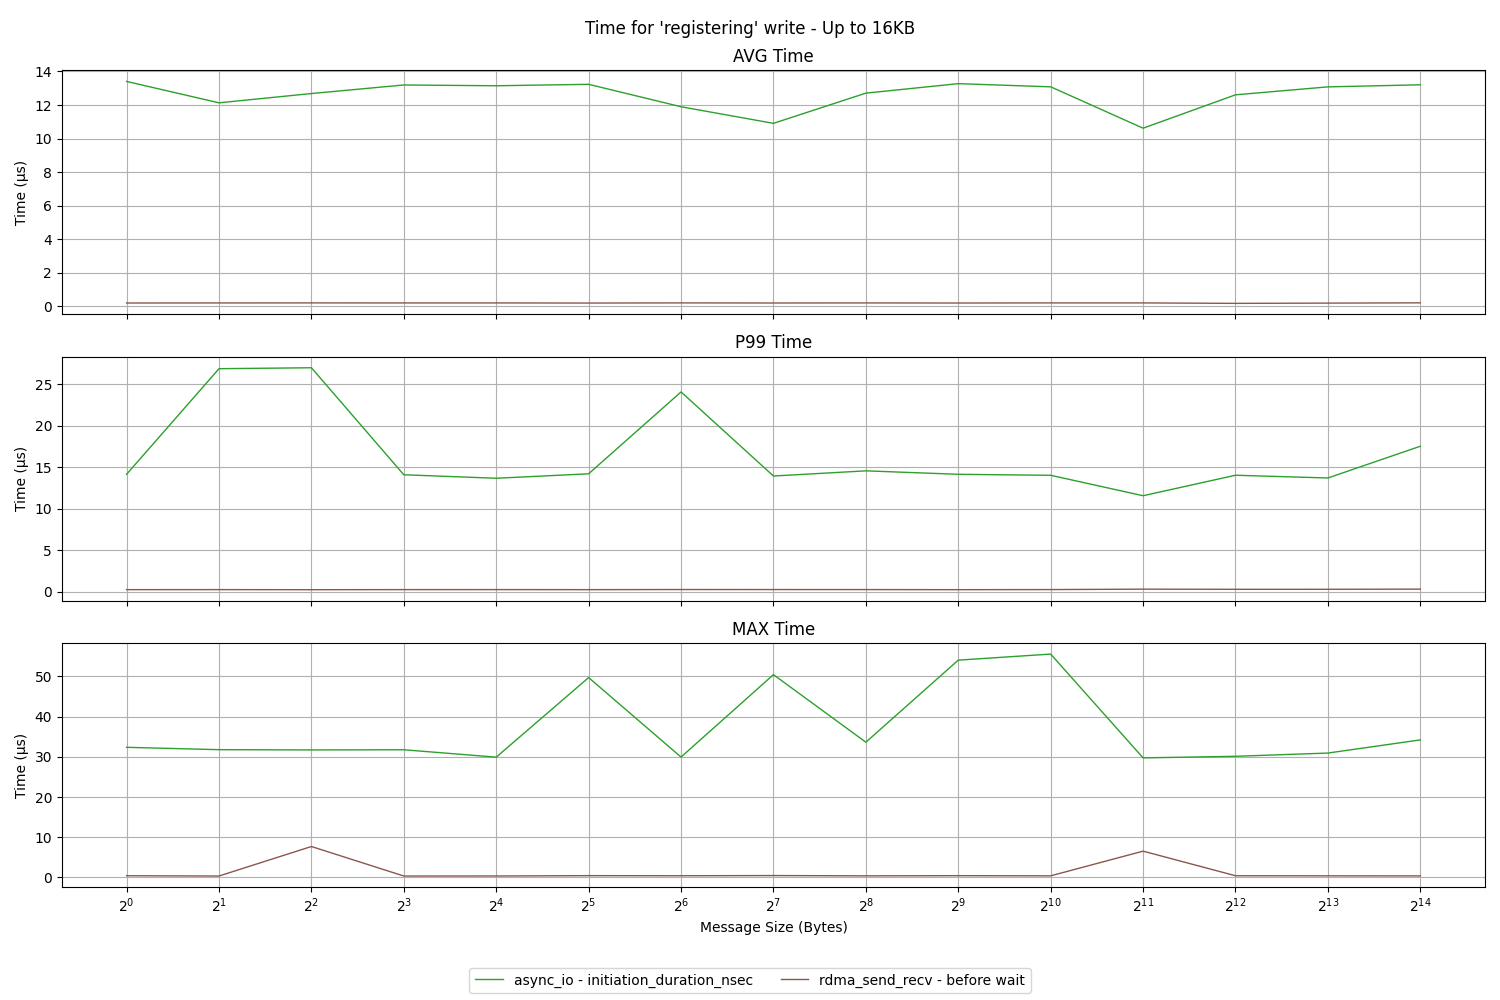
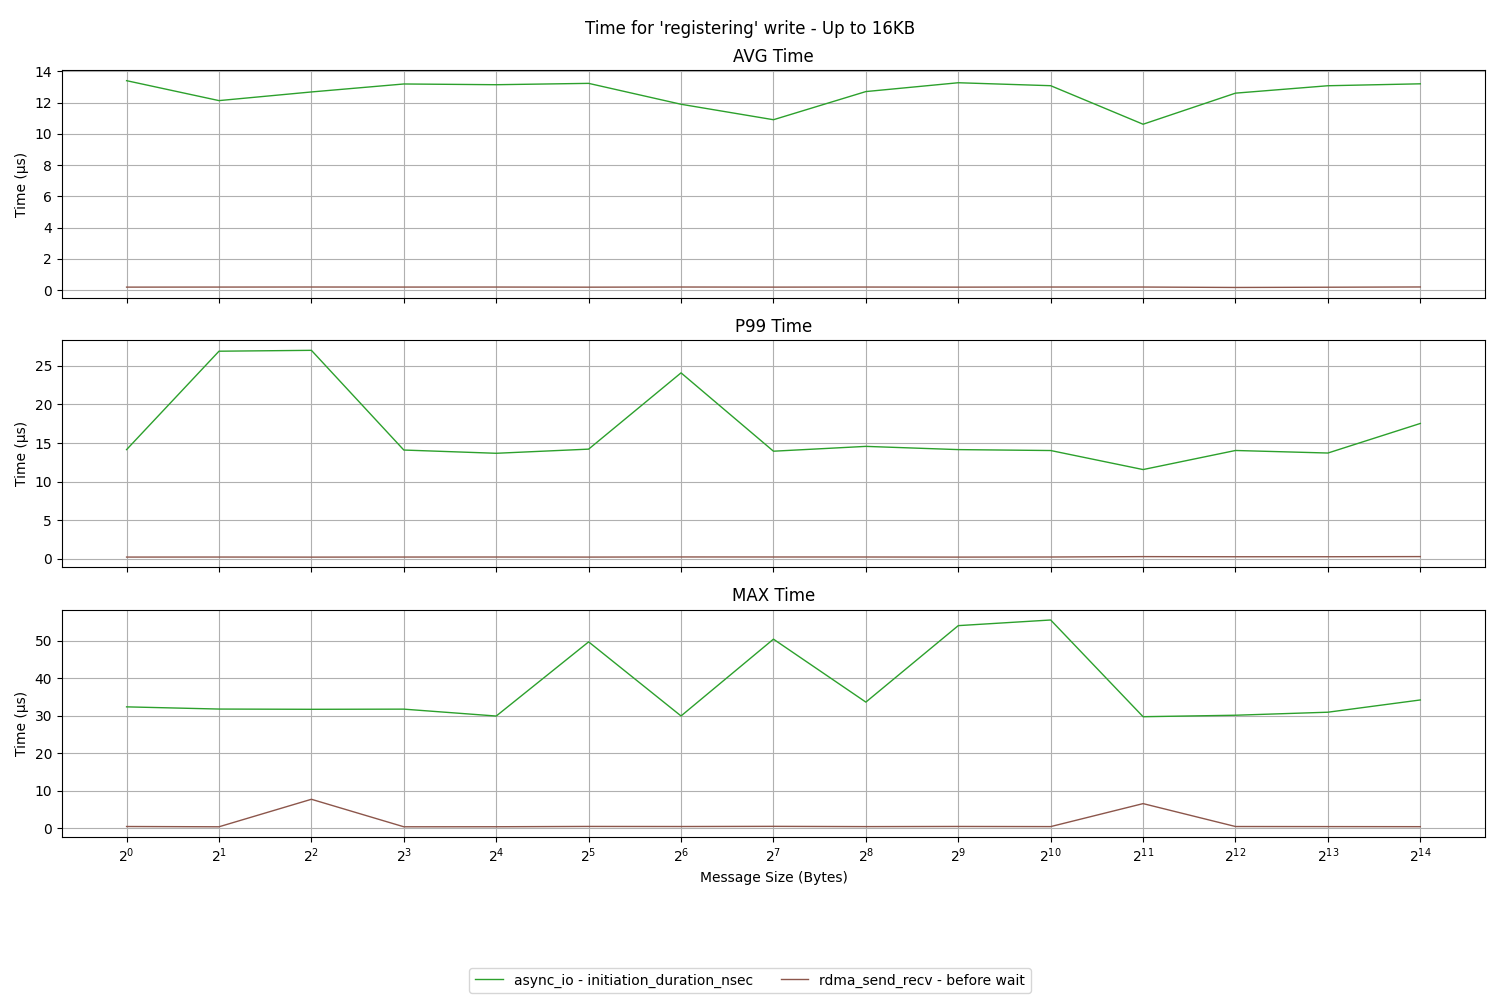
More updates.

diff --git a/plot_results.py b/plot_results.py
@@ -181,7 +181,7 @@ for i, metric_type in enumerate(metrics):
 axes[-1].set_xlabel('Message Size (Bytes)')
 handles, labels = axes[0].get_legend_handles_labels()
 fig.legend(handles, labels, loc='lower center', ncol=3)
-plt.tight_layout(rect=(0, .1, 1, 1))
+plt.tight_layout(rect=(0, 0.1, 1, 1))
 plt.savefig("plots/plot_all_conditions.png")
 
 # Create the figure and subplots for the truncated data (all conditions)
@@ -230,7 +230,7 @@ for i, metric_type in enumerate(metrics):
 axes_truncated_all[-1].set_xlabel('Message Size (Bytes)')
 handles_truncated_all, labels_truncated_all = axes_truncated_all[0].get_legend_handles_labels()
 fig_truncated_all.legend(handles_truncated_all, labels_truncated_all, loc='lower center', ncol=3)
-plt.tight_layout(rect=(0, .1, 1, 1)) # Adjust layout to make space for the legend
+plt.tight_layout(rect=(0, 0.1, 1, 1)) # Adjust layout to make space for the legend
 plt.savefig("plots/plot_truncated_all_conditions.png")
 
 # Create the figure and subplots for the data beyond the truncation (all conditions)
@@ -280,10 +280,10 @@ for i, metric_type in enumerate(metrics):
 axes_beyond_all[-1].set_xlabel('Message Size (Bytes)')
 handles_beyond_all, labels_beyond_all = axes_beyond_all[0].get_legend_handles_labels()
 fig_beyond_all.legend(handles_beyond_all, labels_beyond_all, loc='lower center', ncol=3)
-plt.tight_layout(rect=(0, .1, 1, 1))
+plt.tight_layout(rect=(0, 0.1, 1, 1))
 plt.savefig("plots/plot_beyond_truncated_all_conditions.png")
 
-# Create the figure and subplots for the original data (without the two conditions)
+# Create the figure and subplots for the original data (without the two conditions) - ALL DATA
 fig_removed, axes_removed = plt.subplots(3, 1, figsize=(15, 10), sharex=True)
 fig_removed.suptitle('Time spent by threads for I/O (Conditions Removed)')
 for i, metric_type in enumerate(metrics):
@@ -330,8 +330,107 @@ for i, metric_type in enumerate(metrics):
 axes_removed[-1].set_xlabel('Message Size (Bytes)')
 handles_removed, labels_removed = axes_removed[0].get_legend_handles_labels()
 fig_removed.legend(handles_removed, labels_removed, loc='lower center', ncol=3)
-plt.tight_layout(rect=(0, .1, 1, 1))
+plt.tight_layout(rect=(0, 0.1, 1, 1))
+plt.savefig("plots/plot_removed_conditions.png")
+
+# Create the figure and subplots for the original data (without the two conditions) - TRUNCATED
+fig_truncated_removed, axes_truncated_removed = plt.subplots(3, 1, figsize=(15, 10), sharex=True)
+fig_truncated_removed.suptitle('Time spent by threads for I/O (Conditions Removed, <= 16KB)')
+for i, metric_type in enumerate(metrics):
+    ax = axes_truncated_removed[i]
+    ax.set_title(f'{metric_type.upper()} Time')
+    for experiment_type in unique_experiment_types_truncated_removed:
+        subset = truncated_df_removed[truncated_df_removed['Experiment Type'] == experiment_type]
+        subset_sorted = subset.sort_values(by='Message Size')
+        if 'async_io' in experiment_type:
+            for col in ['initiation_duration_nsec', 'write_duration_nsec']:
+                metric_col = f'{col}_{metric_type}'
+                if metric_col in subset_sorted.columns:
+                    color = condition_colors_removed.get((experiment_type, col))
+                    subset_sorted[metric_col] = subset_sorted[metric_col] / 1000
+                    ax.plot(subset_sorted['Message Size'], subset_sorted[metric_col], label=f'{experiment_type} - {col}'.replace('_duration_nsec', ''), color=color, linewidth=common_linewidth, linestyle=common_linestyle)
+        elif 'mmap_io' in experiment_type:
+            for col in ['memcpy_duration_nsec']:
+                metric_col = f'{col}_{metric_type}'
+                if metric_col in subset_sorted.columns:
+                    color = condition_colors_removed.get((experiment_type, col))
+                    subset_sorted[metric_col] = subset_sorted[metric_col] / 1000
+                    ax.plot(subset_sorted['Message Size'], subset_sorted[metric_col], label=f'{experiment_type} - {col}'.replace('_duration_nsec', ''), color=color, linewidth=common_linewidth, linestyle=common_linestyle)
+        elif 'rdma_send_recv' in experiment_type:
+            for col in ['before wait', 'after wait', 'rtt']:
+                metric_col = f'{col}_{metric_type}'
+                if metric_col in subset_sorted.columns:
+                    color = condition_colors_removed.get((experiment_type, col))
+                    subset_sorted[metric_col] = subset_sorted[metric_col] / 1000
+                    ax.plot(subset_sorted['Message Size'], subset_sorted[metric_col], label=f'{experiment_type} - {col}'.replace('_duration_nsec', ''), color=color, linewidth=common_linewidth, linestyle=common_linestyle)
+        elif 'sync_io' in experiment_type:
+            for col in ['write_duration_nsec']:
+                metric_col = f'{col}_{metric_type}'
+                if metric_col in subset_sorted.columns:
+                    color = condition_colors_removed.get((experiment_type, col))
+                    subset_sorted[metric_col] = subset_sorted[metric_col] / 1000
+                    ax.plot(subset_sorted['Message Size'], subset_sorted[metric_col], label=f'{experiment_type} - {col}'.replace('_duration_nsec', ''), color=color, linewidth=common_linewidth, linestyle=common_linestyle)
+    ax.set_xscale('log', base=2)
+    ax.set_ylabel('Time (µs)')
+    ax.grid(True)
+    xticks_truncated_removed = [2**i for i in range(15)]
+    ax.set_xticks(xticks_truncated_removed)
+    ax.set_xlim(0.9, 20000)
+axes_truncated_removed[-1].set_xlabel('Message Size (Bytes)')
+handles_truncated_removed, labels_truncated_removed = axes_truncated_removed[0].get_legend_handles_labels()
+fig_truncated_removed.legend(handles_truncated_removed, labels_truncated_removed, loc='lower center', ncol=3)
+plt.tight_layout(rect=(0, 0.1, 1, 1))
 plt.savefig("plots/plot_truncated_removed_conditions.png")
+
+# Create the figure and subplots for the original data (without the two conditions) - BEYOND TRUNCATED
+fig_beyond_truncated_removed, axes_beyond_truncated_removed = plt.subplots(3, 1, figsize=(15, 10), sharex=True)
+fig_beyond_truncated_removed.suptitle('Time spent by threads for I/O (Conditions Removed, > 16KB)')
+for i, metric_type in enumerate(metrics):
+    ax = axes_beyond_truncated_removed[i]
+    ax.set_title(f'{metric_type.upper()} Time')
+    for experiment_type in unique_experiment_types_beyond_removed:
+        subset = beyond_truncated_df_removed[beyond_truncated_df_removed['Experiment Type'] == experiment_type]
+        subset_sorted = subset.sort_values(by='Message Size')
+        if 'async_io' in experiment_type:
+            for col in ['initiation_duration_nsec', 'write_duration_nsec']:
+                metric_col = f'{col}_{metric_type}'
+                if metric_col in subset_sorted.columns:
+                    color = condition_colors_removed.get((experiment_type, col))
+                    subset_sorted[metric_col] = subset_sorted[metric_col] / 1000
+                    ax.plot(subset_sorted['Message Size'], subset_sorted[metric_col], label=f'{experiment_type} - {col}'.replace('_duration_nsec', ''), color=color, linewidth=common_linewidth, linestyle=common_linestyle)
+        elif 'mmap_io' in experiment_type:
+            for col in ['memcpy_duration_nsec']:
+                metric_col = f'{col}_{metric_type}'
+                if metric_col in subset_sorted.columns:
+                    color = condition_colors_removed.get((experiment_type, col))
+                    subset_sorted[metric_col] = subset_sorted[metric_col] / 1000
+                    ax.plot(subset_sorted['Message Size'], subset_sorted[metric_col], label=f'{experiment_type} - {col}'.replace('_duration_nsec', ''), color=color, linewidth=common_linewidth, linestyle=common_linestyle)
+        elif 'rdma_send_recv' in experiment_type:
+            for col in ['before wait', 'after wait', 'rtt']:
+                metric_col = f'{col}_{metric_type}'
+                if metric_col in subset_sorted.columns:
+                    color = condition_colors_removed.get((experiment_type, col))
+                    subset_sorted[metric_col] = subset_sorted[metric_col] / 1000
+                    ax.plot(subset_sorted['Message Size'], subset_sorted[metric_col], label=f'{experiment_type} - {col}'.replace('_duration_nsec', ''), color=color, linewidth=common_linewidth, linestyle=common_linestyle)
+        elif 'sync_io' in experiment_type:
+            for col in ['write_duration_nsec']:
+                metric_col = f'{col}_{metric_type}'
+                if metric_col in subset_sorted.columns:
+                    color = condition_colors_removed.get((experiment_type, col))
+                    subset_sorted[metric_col] = subset_sorted[metric_col] / 1000
+                    ax.plot(subset_sorted['Message Size'], subset_sorted[metric_col], label=f'{experiment_type} - {col}'.replace('_duration_nsec', ''), color=color, linewidth=common_linewidth, linestyle=common_linestyle)
+    ax.set_xscale('log', base=2)
+    ax.set_ylabel('Time (µs)')
+    ax.grid(True)
+    max_size_beyond_removed = beyond_truncated_df_removed['Message Size'].max()
+    upper_power_beyond_removed = int(np.ceil(np.log2(max_size_beyond_removed))) if max_size_beyond_removed > 0 else 15
+    xticks_beyond_removed = [2**i for i in range(15, upper_power_beyond_removed + 1)]
+    ax.set_xticks(xticks_beyond_removed)
+axes_beyond_truncated_removed[-1].set_xlabel('Message Size (Bytes)')
+handles_beyond_truncated_removed, labels_beyond_truncated_removed = axes_beyond_truncated_removed[0].get_legend_handles_labels()
+fig_beyond_truncated_removed.legend(handles_beyond_truncated_removed, labels_beyond_truncated_removed, loc='lower center', ncol=3)
+plt.tight_layout(rect=(0, 0.1, 1, 1))
+plt.savefig("plots/plot_beyond_truncated_removed_conditions.png")
 
 # --- New Plot Set 1: Time for complete write ---
 plot_set1_base_title = "Time for complete write"
@@ -386,7 +485,7 @@ for data_range, df, filename_suffix in [
     axes_set1[-1].set_xlabel('Message Size (Bytes)')
     handles_set1, labels_set1 = axes_set1[0].get_legend_handles_labels()
     fig_set1.legend(handles_set1, labels_set1, loc='lower center', ncol=2)
-    plt.tight_layout(rect=(0, 0.05, 1, 1)) # Adjusted bottom rect
+    plt.tight_layout(rect=(0, 0.1, 1, 1))
     plt.savefig(f"plots/plot_set1_{filename_suffix}.png")
     plt.close(fig_set1)
 
@@ -443,7 +542,7 @@ for data_range, df, filename_suffix in [
     axes_set2[-1].set_xlabel('Message Size (Bytes)')
     handles_set2, labels_set2 = axes_set2[0].get_legend_handles_labels()
     fig_set2.legend(handles_set2, labels_set2, loc='lower center', ncol=2)
-    plt.tight_layout(rect=(0, 0.05, 1, 1)) # Adjusted bottom rect
+    plt.tight_layout(rect=(0, 0.1, 1, 1))
     plt.savefig(f"plots/plot_set2_{filename_suffix}.png")
     plt.close(fig_set2)
 
@@ -490,7 +589,7 @@ for data_range, df, filename_suffix in [
     axes_set3[-1].set_xlabel('Message Size (Bytes)')
     handles_set3, labels_set3 = axes_set3[0].get_legend_handles_labels()
     fig_set3.legend(handles_set3, labels_set3, loc='lower center', ncol=2)
-    plt.tight_layout(rect=(0, 0.05, 1, 1)) # Adjusted bottom rect
+    plt.tight_layout(rect=(0, 0.1, 1, 1))
     plt.savefig(f"plots/plot_set3_{filename_suffix}.png")
     plt.close(fig_set3)
 
@@ -504,7 +603,7 @@ def adjust_legend_labels(filename):
     handles, labels = plt.gca().get_legend_handles_labels()
     if handles:
         plt.legend(handles, [label.replace('_duration_nsec', '') for label in labels], loc='lower center', ncol=3)
-        plt.tight_layout(rect=(0, .1, 1, 1)) # Ensure rect is correct
+        plt.tight_layout(rect=(0, 0.1, 1, 1)) # Ensure rect is correct
         plt.savefig(filename)
     plt.close()
 
@@ -513,3 +612,4 @@ adjust_legend_labels("plots/plot_truncated_all_conditions.png")
 adjust_legend_labels("plots/plot_beyond_truncated_all_conditions.png")
 adjust_legend_labels("plots/plot_removed_conditions.png")
 adjust_legend_labels("plots/plot_truncated_removed_conditions.png")
+adjust_legend_labels("plots/plot_beyond_truncated_removed_conditions.png")
